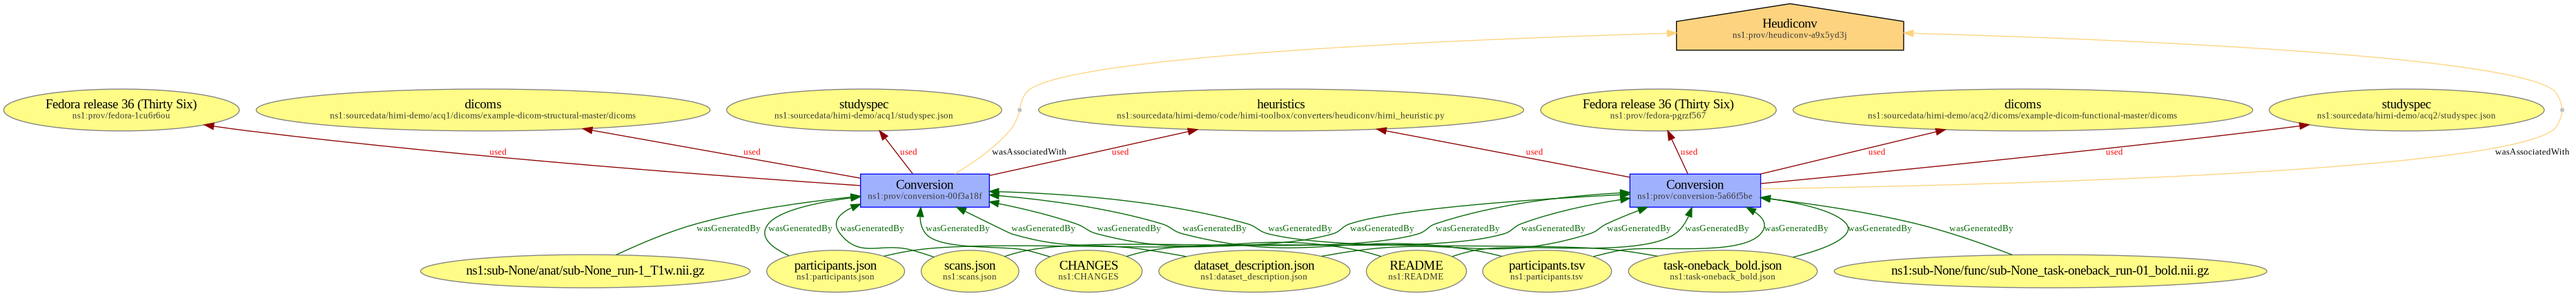
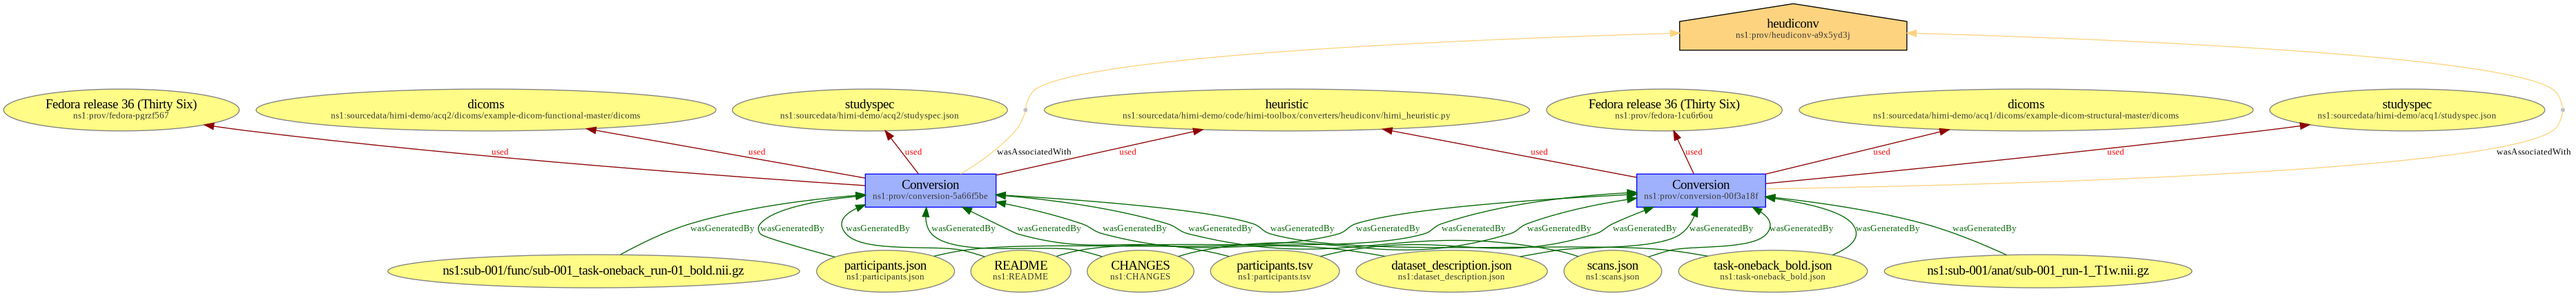
Subject Id changes

diff --git a/examples/heudiconv/code/merge_prov.py b/examples/heudiconv/code/merge_prov.py
@@ -20,8 +20,8 @@ prov_ent_files = [
 	'prov/prov-heudiconv_ent.prov.json'
 ]
 sidecar_files = [
-	'sub-None/func/sub-None_task-oneback_run-01_bold.json',
-	'sub-None/anat/sub-None_run-1_T1w.json'
+	'sub-001/func/sub-001_task-oneback_run-01_bold.json',
+	'sub-001/anat/sub-001_run-1_T1w.json'
 ]
 
 # Base jsonld
